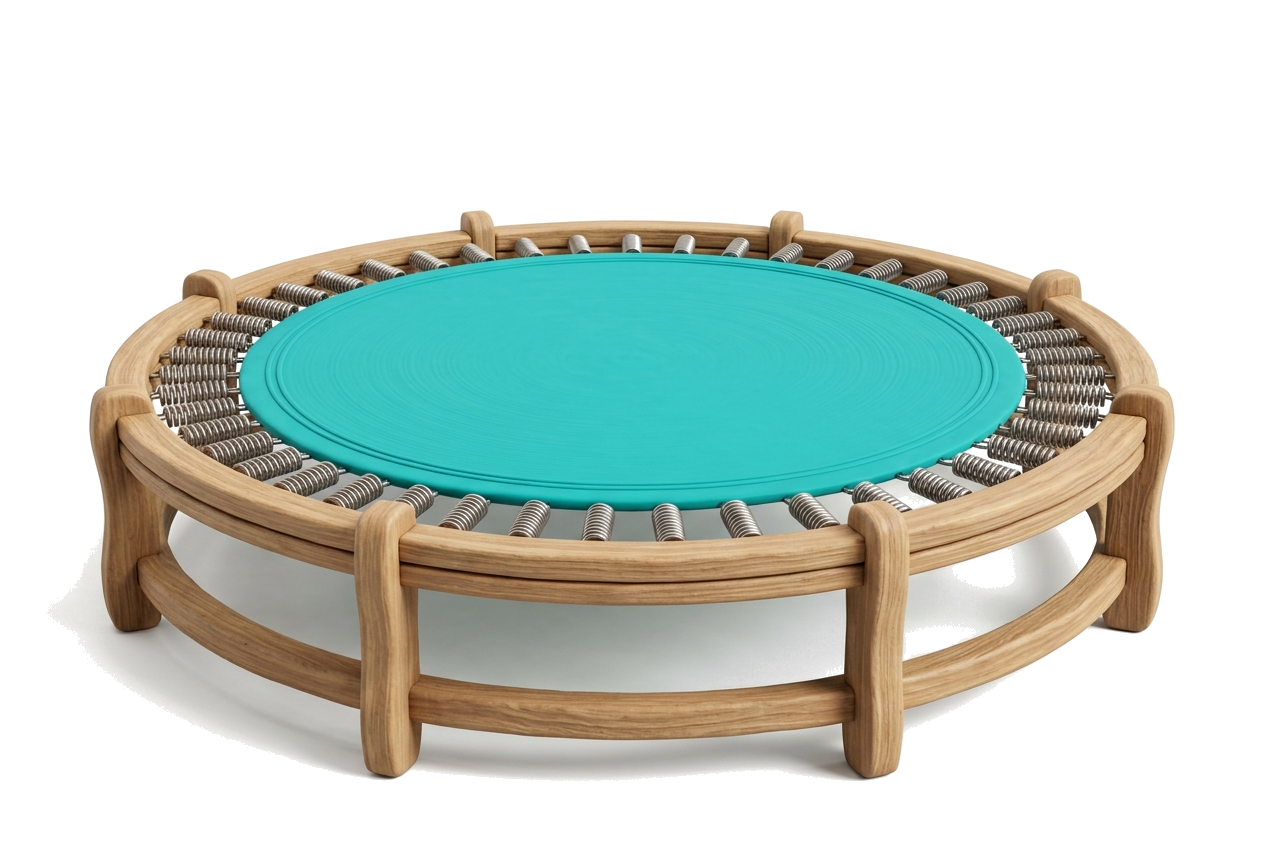
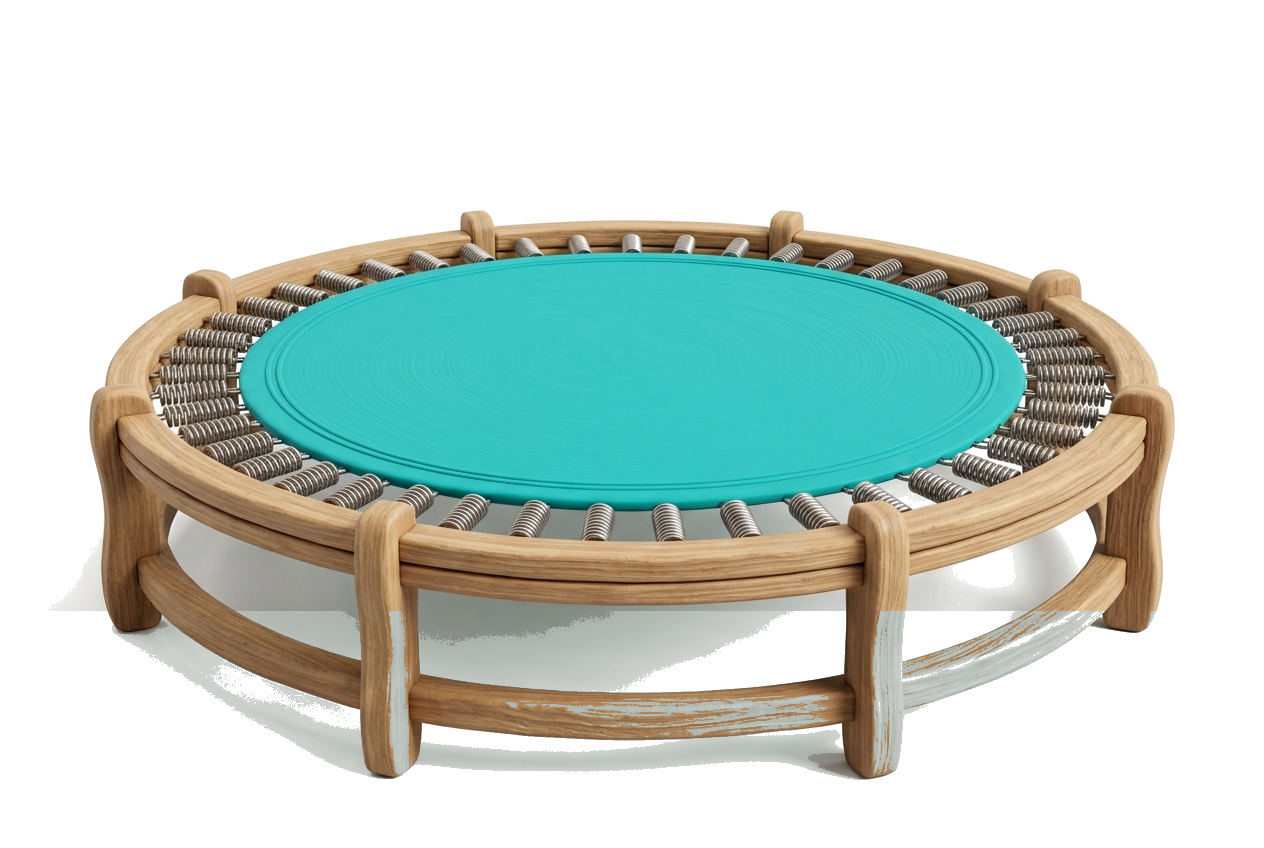
fix: replace dark ground box with natural rolling hills and clean trampoline shadow halos

Changed region(s): [[0.0309, 0.7052, 0.8639, 0.9198]]

diff --git a/lib/features/trampoline_game/presentation/widgets/sky_parallax_background.dart b/lib/features/trampoline_game/presentation/widgets/sky_parallax_background.dart
@@ -107,33 +107,13 @@ class _SkyParallaxBackgroundState extends State<SkyParallaxBackground>
           },
         ),
 
-        // ── LUSH GREEN MEADOW GROUND ─────────────────────────────────
+        // ── NATURAL ROLLING MEADOW HILLS ────────────────────────────
         Positioned(
           left: 0,
           right: 0,
           bottom: 0,
-          height: 120,
-          child: Container(
-            decoration: BoxDecoration(
-              gradient: const LinearGradient(
-                colors: [
-                  Color(0xFF86EFAC), // Fresh meadow light green
-                  Color(0xFF4ADE80), // Vibrant grass green
-                  Color(0xFF22C55E), // Deep lush grass
-                ],
-                begin: Alignment.topCenter,
-                end: Alignment.bottomCenter,
-              ),
-              borderRadius: const BorderRadius.vertical(top: Radius.circular(32)),
-              boxShadow: [
-                BoxShadow(
-                  color: const Color(0xFF15803D).withOpacity(0.20),
-                  offset: const Offset(0, -4),
-                  blurRadius: 10,
-                ),
-              ],
-            ),
-          ),
+          height: 220,
+          child: const MeadowHillsBackground(),
         ),
 
         // Content
@@ -206,4 +186,135 @@ class _SkyParallaxBackgroundState extends State<SkyParallaxBackground>
       ),
     );
   }
+}
+
+/// Custom painted organic rolling hills and sunny meadow land
+class MeadowHillsBackground extends StatelessWidget {
+  const MeadowHillsBackground({super.key});
+
+  @override
+  Widget build(BuildContext context) {
+    return const CustomPaint(
+      painter: _MeadowHillsPainter(),
+      size: Size.infinite,
+    );
+  }
+}
+
+class _MeadowHillsPainter extends CustomPainter {
+  const _MeadowHillsPainter();
+
+  @override
+  void paint(Canvas canvas, Size size) {
+    final w = size.width;
+    final h = size.height;
+
+    // ── 1. DISTANT BACKGROUND ROLLING HILL ────────────────────────
+    final backHillPath = Path();
+    backHillPath.moveTo(0, h * 0.42);
+    backHillPath.cubicTo(
+      w * 0.28,
+      h * 0.20,
+      w * 0.68,
+      h * 0.52,
+      w,
+      h * 0.32,
+    );
+    backHillPath.lineTo(w, h);
+    backHillPath.lineTo(0, h);
+    backHillPath.close();
+
+    final backHillPaint = Paint()
+      ..shader = const LinearGradient(
+        colors: [
+          Color(0xFFD9F99D), // Soft sunlit lime pastel
+          Color(0xFFA7F3D0), // Soft mint green
+          Color(0xFF86EFAC), // Light meadow green
+        ],
+        begin: Alignment.topCenter,
+        end: Alignment.bottomCenter,
+      ).createShader(Rect.fromLTWH(0, 0, w, h));
+
+    canvas.drawPath(backHillPath, backHillPaint);
+
+    // ── 2. MID-GROUND SUNNY ROLLING HILL ──────────────────────────
+    final midHillPath = Path();
+    midHillPath.moveTo(0, h * 0.48);
+    midHillPath.cubicTo(
+      w * 0.38,
+      h * 0.65,
+      w * 0.72,
+      h * 0.32,
+      w,
+      h * 0.45,
+    );
+    midHillPath.lineTo(w, h);
+    midHillPath.lineTo(0, h);
+    midHillPath.close();
+
+    final midHillPaint = Paint()
+      ..shader = const LinearGradient(
+        colors: [
+          Color(0xFFBAF7D0), // Sunlit warm light green
+          Color(0xFF86EFAC), // Fresh meadow green
+          Color(0xFF4ADE80), // Vibrant grass green
+        ],
+        begin: Alignment.topCenter,
+        end: Alignment.bottomCenter,
+      ).createShader(Rect.fromLTWH(0, 0, w, h));
+
+    canvas.drawPath(midHillPath, midHillPaint);
+
+    // ── 3. MAIN FOREGROUND MEADOW GROUND ──────────────────────────
+    final foreHillPath = Path();
+    foreHillPath.moveTo(0, h * 0.58);
+    foreHillPath.cubicTo(
+      w * 0.30,
+      h * 0.46,
+      w * 0.70,
+      h * 0.54,
+      w,
+      h * 0.50,
+    );
+    foreHillPath.lineTo(w, h);
+    foreHillPath.lineTo(0, h);
+    foreHillPath.close();
+
+    final foreHillPaint = Paint()
+      ..shader = const LinearGradient(
+        colors: [
+          Color(0xFFC7F9CC), // Pale sunny grass highlight
+          Color(0xFF86EFAC), // Meadow green
+          Color(0xFF4ADE80), // Vibrant grass
+          Color(0xFF22C55E), // Lush rich grass
+        ],
+        stops: [0.0, 0.25, 0.65, 1.0],
+        begin: Alignment.topCenter,
+        end: Alignment.bottomCenter,
+      ).createShader(Rect.fromLTWH(0, 0, w, h));
+
+    canvas.drawPath(foreHillPath, foreHillPaint);
+
+    // ── 4. SUBTLE SUNNY WILDFLOWER ACCENTS ─────────────────────────
+    final flowerPaint = Paint()..color = const Color(0xFFFEF9C3);
+    final flowerCenterPaint = Paint()..color = const Color(0xFFF59E0B);
+
+    final flowerLocations = [
+      Offset(w * 0.08, h * 0.72),
+      Offset(w * 0.18, h * 0.88),
+      Offset(w * 0.35, h * 0.78),
+      Offset(w * 0.52, h * 0.85),
+      Offset(w * 0.68, h * 0.74),
+      Offset(w * 0.85, h * 0.82),
+      Offset(w * 0.93, h * 0.70),
+    ];
+
+    for (final pos in flowerLocations) {
+      canvas.drawCircle(pos, 3.5, flowerPaint);
+      canvas.drawCircle(pos, 1.5, flowerCenterPaint);
+    }
+  }
+
+  @override
+  bool shouldRepaint(covariant CustomPainter oldDelegate) => false;
 }
